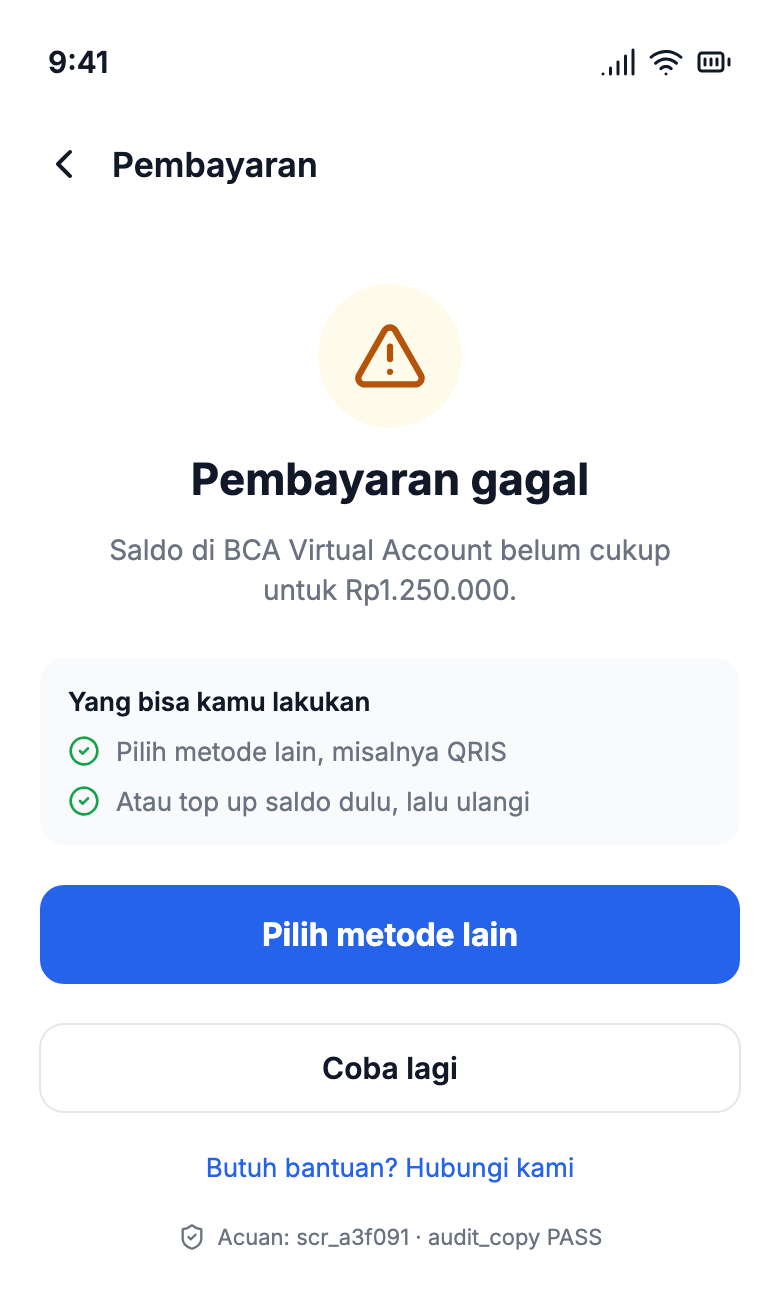
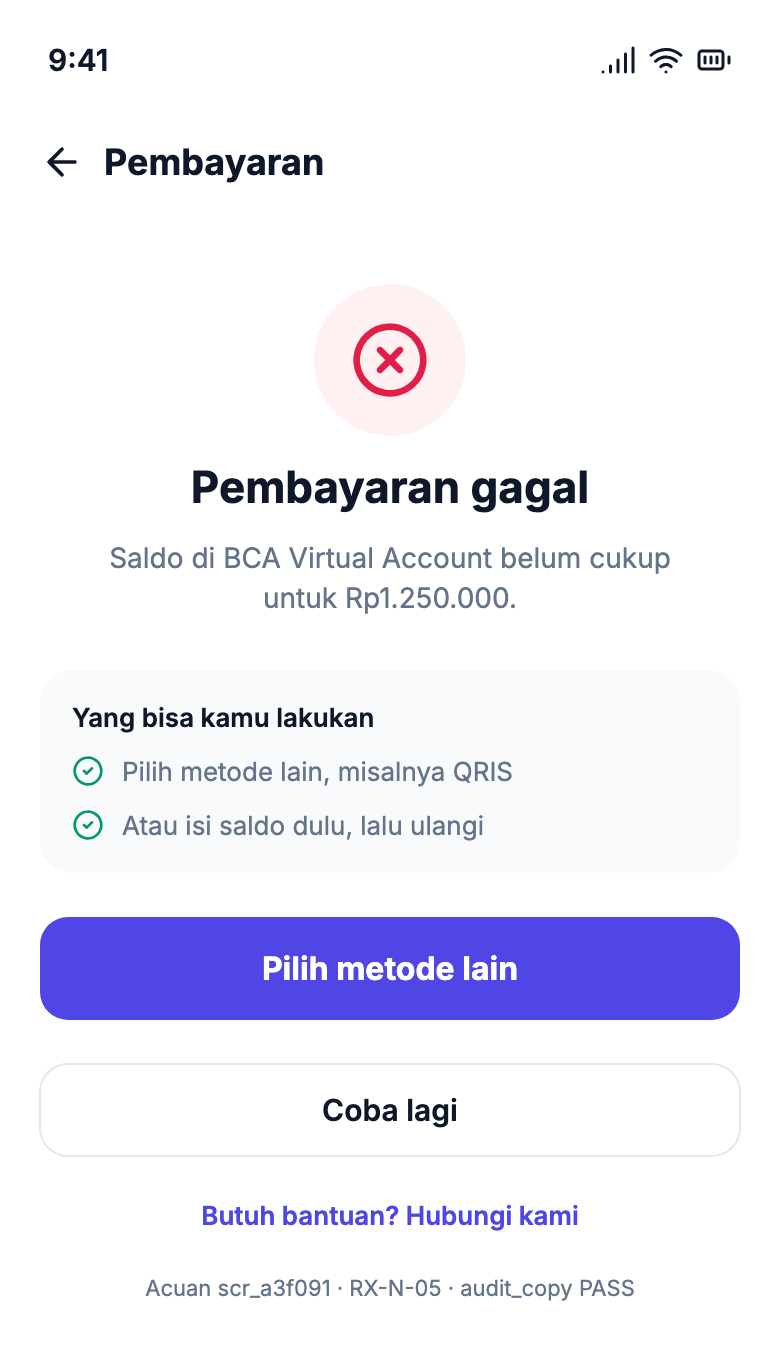
docs: after screens v2 — minimalis premium + RX-N (checkout, error, review)
- UC1: checkout dengan ringkasan pesanan + biaya transparan (RX-N-06/07) + ekspektasi waktu
- UC2: gagal bayar premium (pemulihan RX-N-05); UC3: panel review lebih rapi
- gaya minimalis premium (aksen indigo, hierarki kuat), render pen.dev + Chrome

diff --git a/README.md b/README.md
@@ -36,8 +36,8 @@ berbukti dan wajar. Contoh nyata:
 
 | Sebelum — tanpa ryux | Sesudah — ryux-rules |
 |:--|:--|
-| <a href="assets/compare/ui/ui-before.png"><img src="assets/compare/ui/ui-before.png" alt="Layar bayar generik: logo sparkle, badge 256-BIT, angka pengguna karangan, metode global (Card/PayPal/Apple/Google), harga dolar, teks kontras rendah" width="100%"></a> | <a href="assets/compare/ui/ui-after.png"><img src="assets/compare/ui/ui-after.png" alt="Layar bayar ryux: Rp1.250.000 jelas ke merchant, QRIS diutamakan dengan tag paling sering dipakai, virtual account per bank dengan salin nomor, tombol Bayar sekarang, bukti scr_demo_001" width="100%"></a> |
-| Pola global, angka karangan, dolar, kontras tipis. | QRIS diutamakan (nominal & merchant jelas), Rupiah lokal, bukti `screen_id`, kontras cukup. |
+| <a href="assets/compare/ui/ui-before.png"><img src="assets/compare/ui/ui-before.png" alt="Layar bayar generik: logo sparkle, badge 256-BIT, angka pengguna karangan, metode global (Card/PayPal/Apple/Google), harga dolar, teks kontras rendah" width="100%"></a> | <a href="assets/compare/ui/ui-after.png"><img src="assets/compare/ui/ui-after.png" alt="Layar checkout ryux premium: ringkasan pesanan, rincian biaya transparan (subtotal, ongkir, total Rp1.250.000), QRIS dengan ekspektasi verifikasi kurang dari 5 detik, tombol Bayar Rp1.250.000, catatan kepercayaan, bukti scr_a3f091" width="100%"></a> |
+| Pola global, angka karangan, dolar, kontras tipis. | Ringkasan pesanan + biaya transparan (RX-N-06/07), QRIS + ekspektasi waktu (RX-N-01), Rupiah, bukti `screen_id`. |
 
 **Copy — pesan gagal bayar**
 
